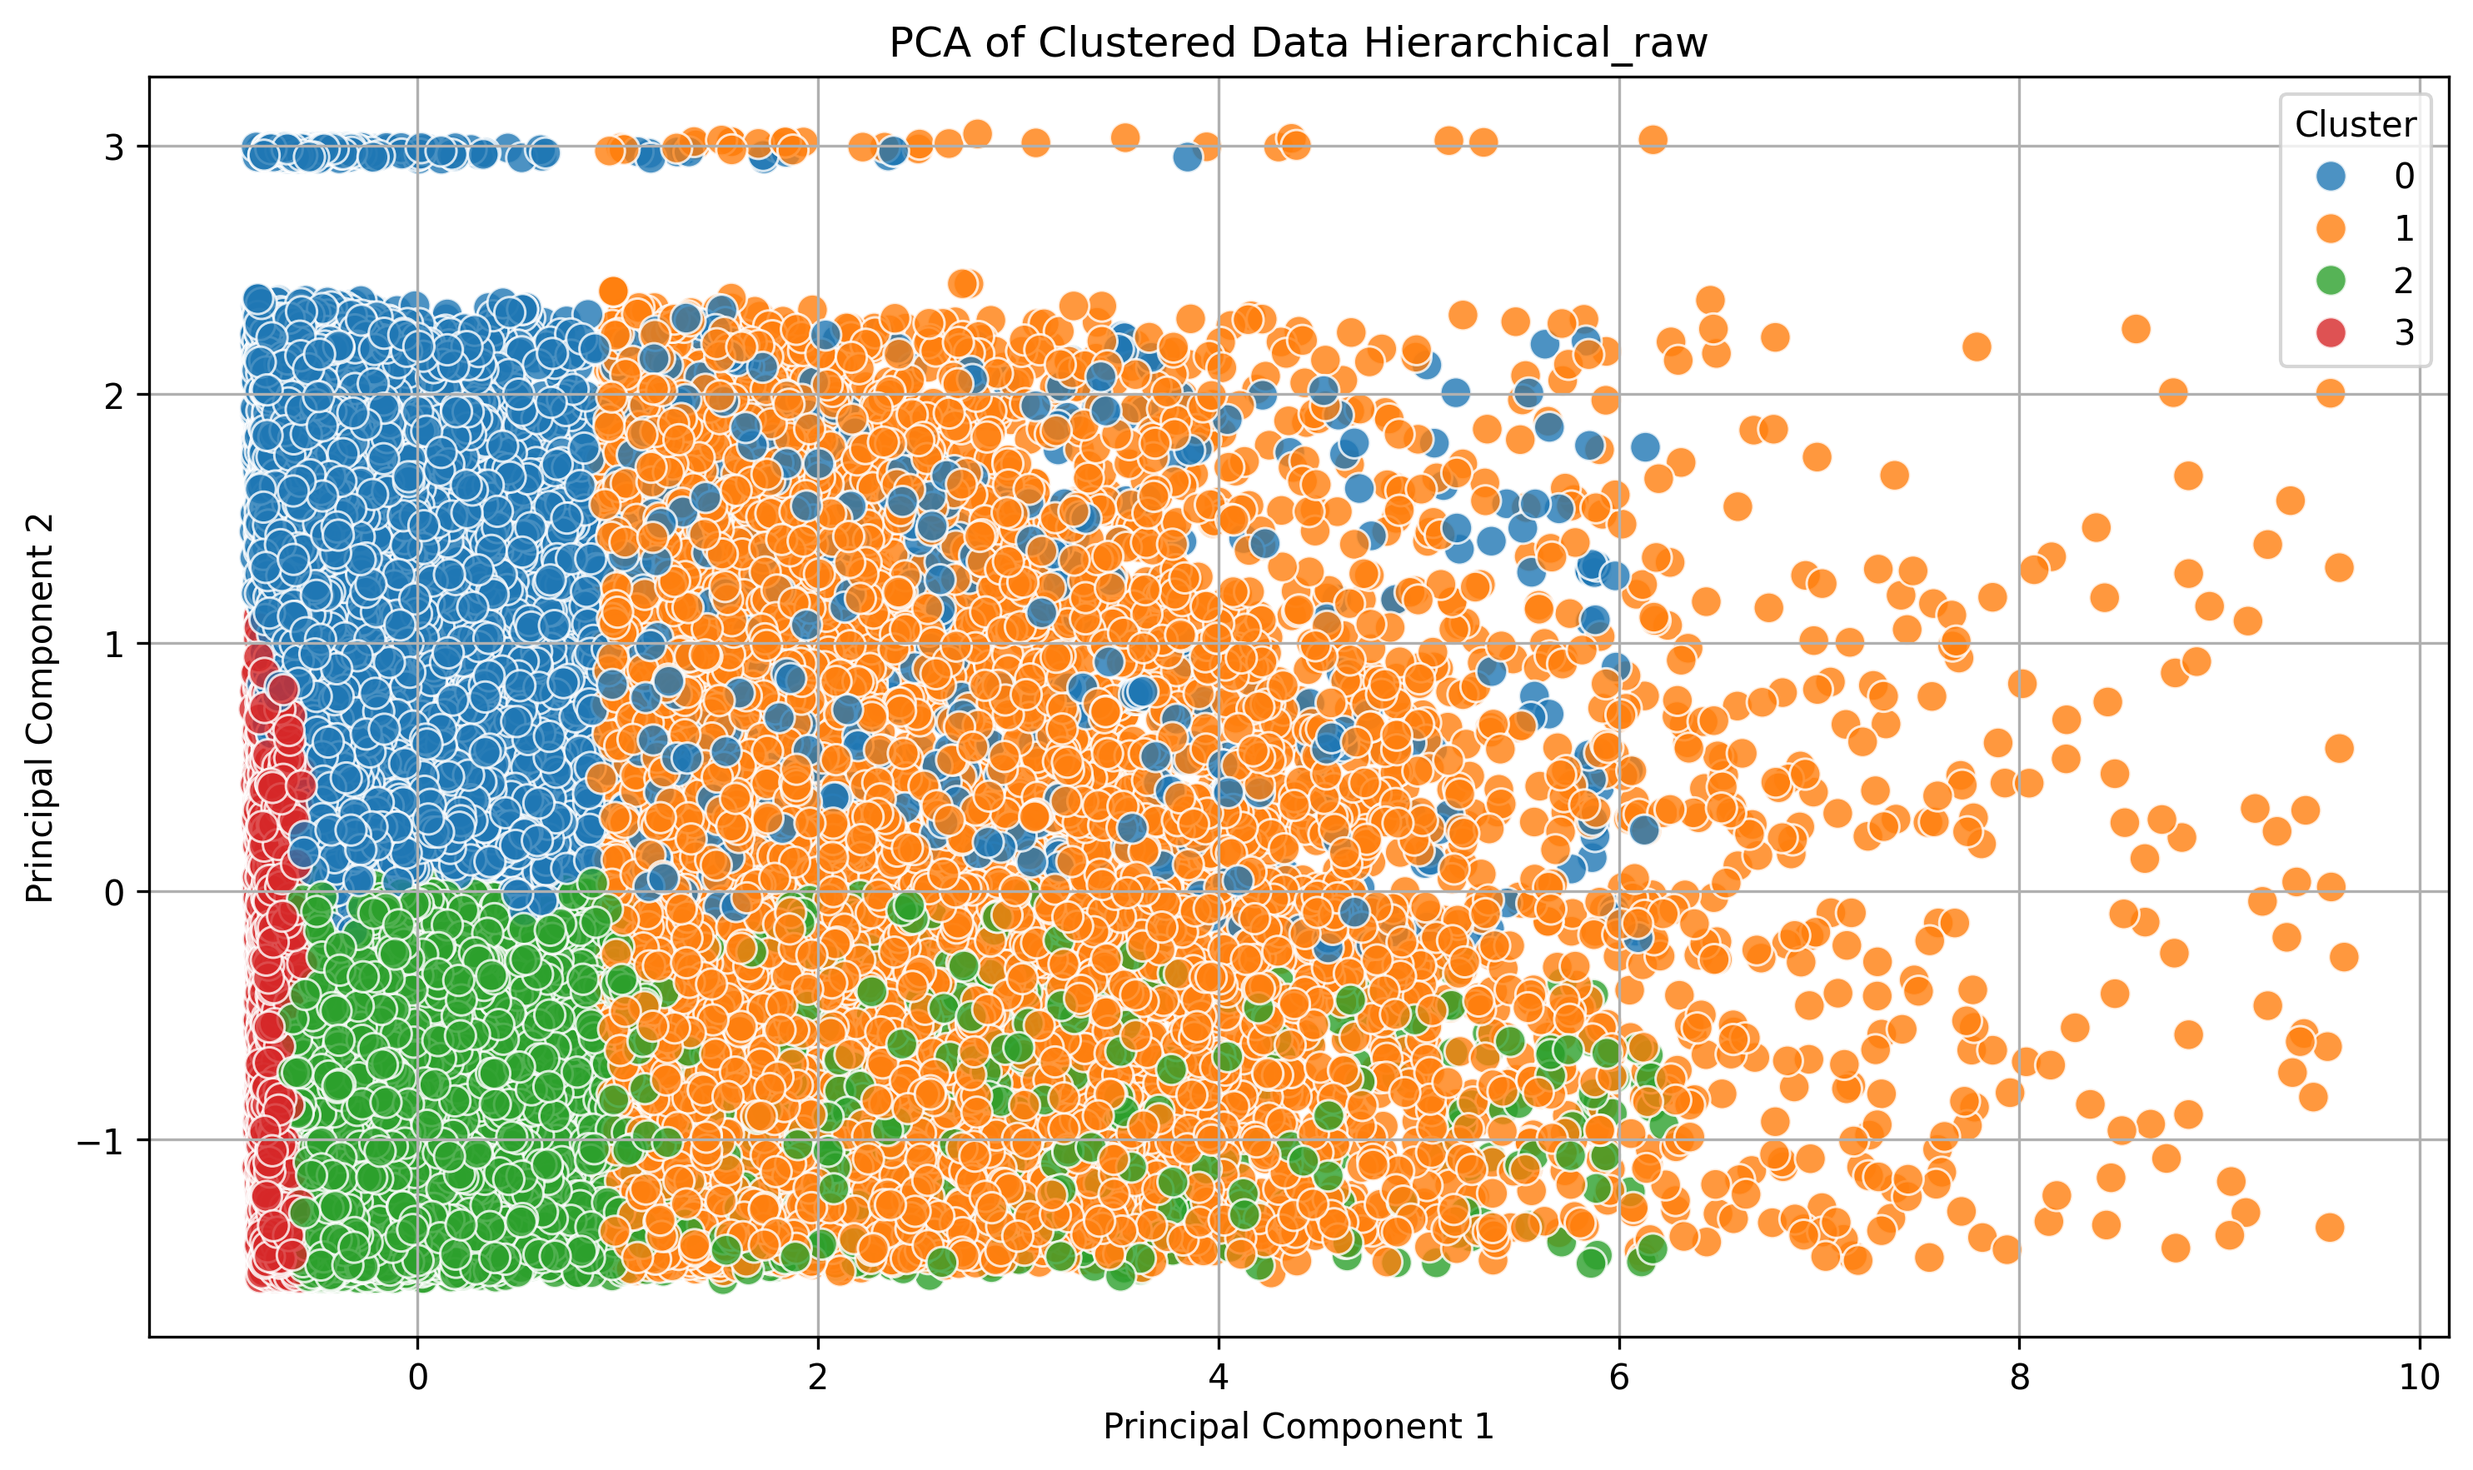
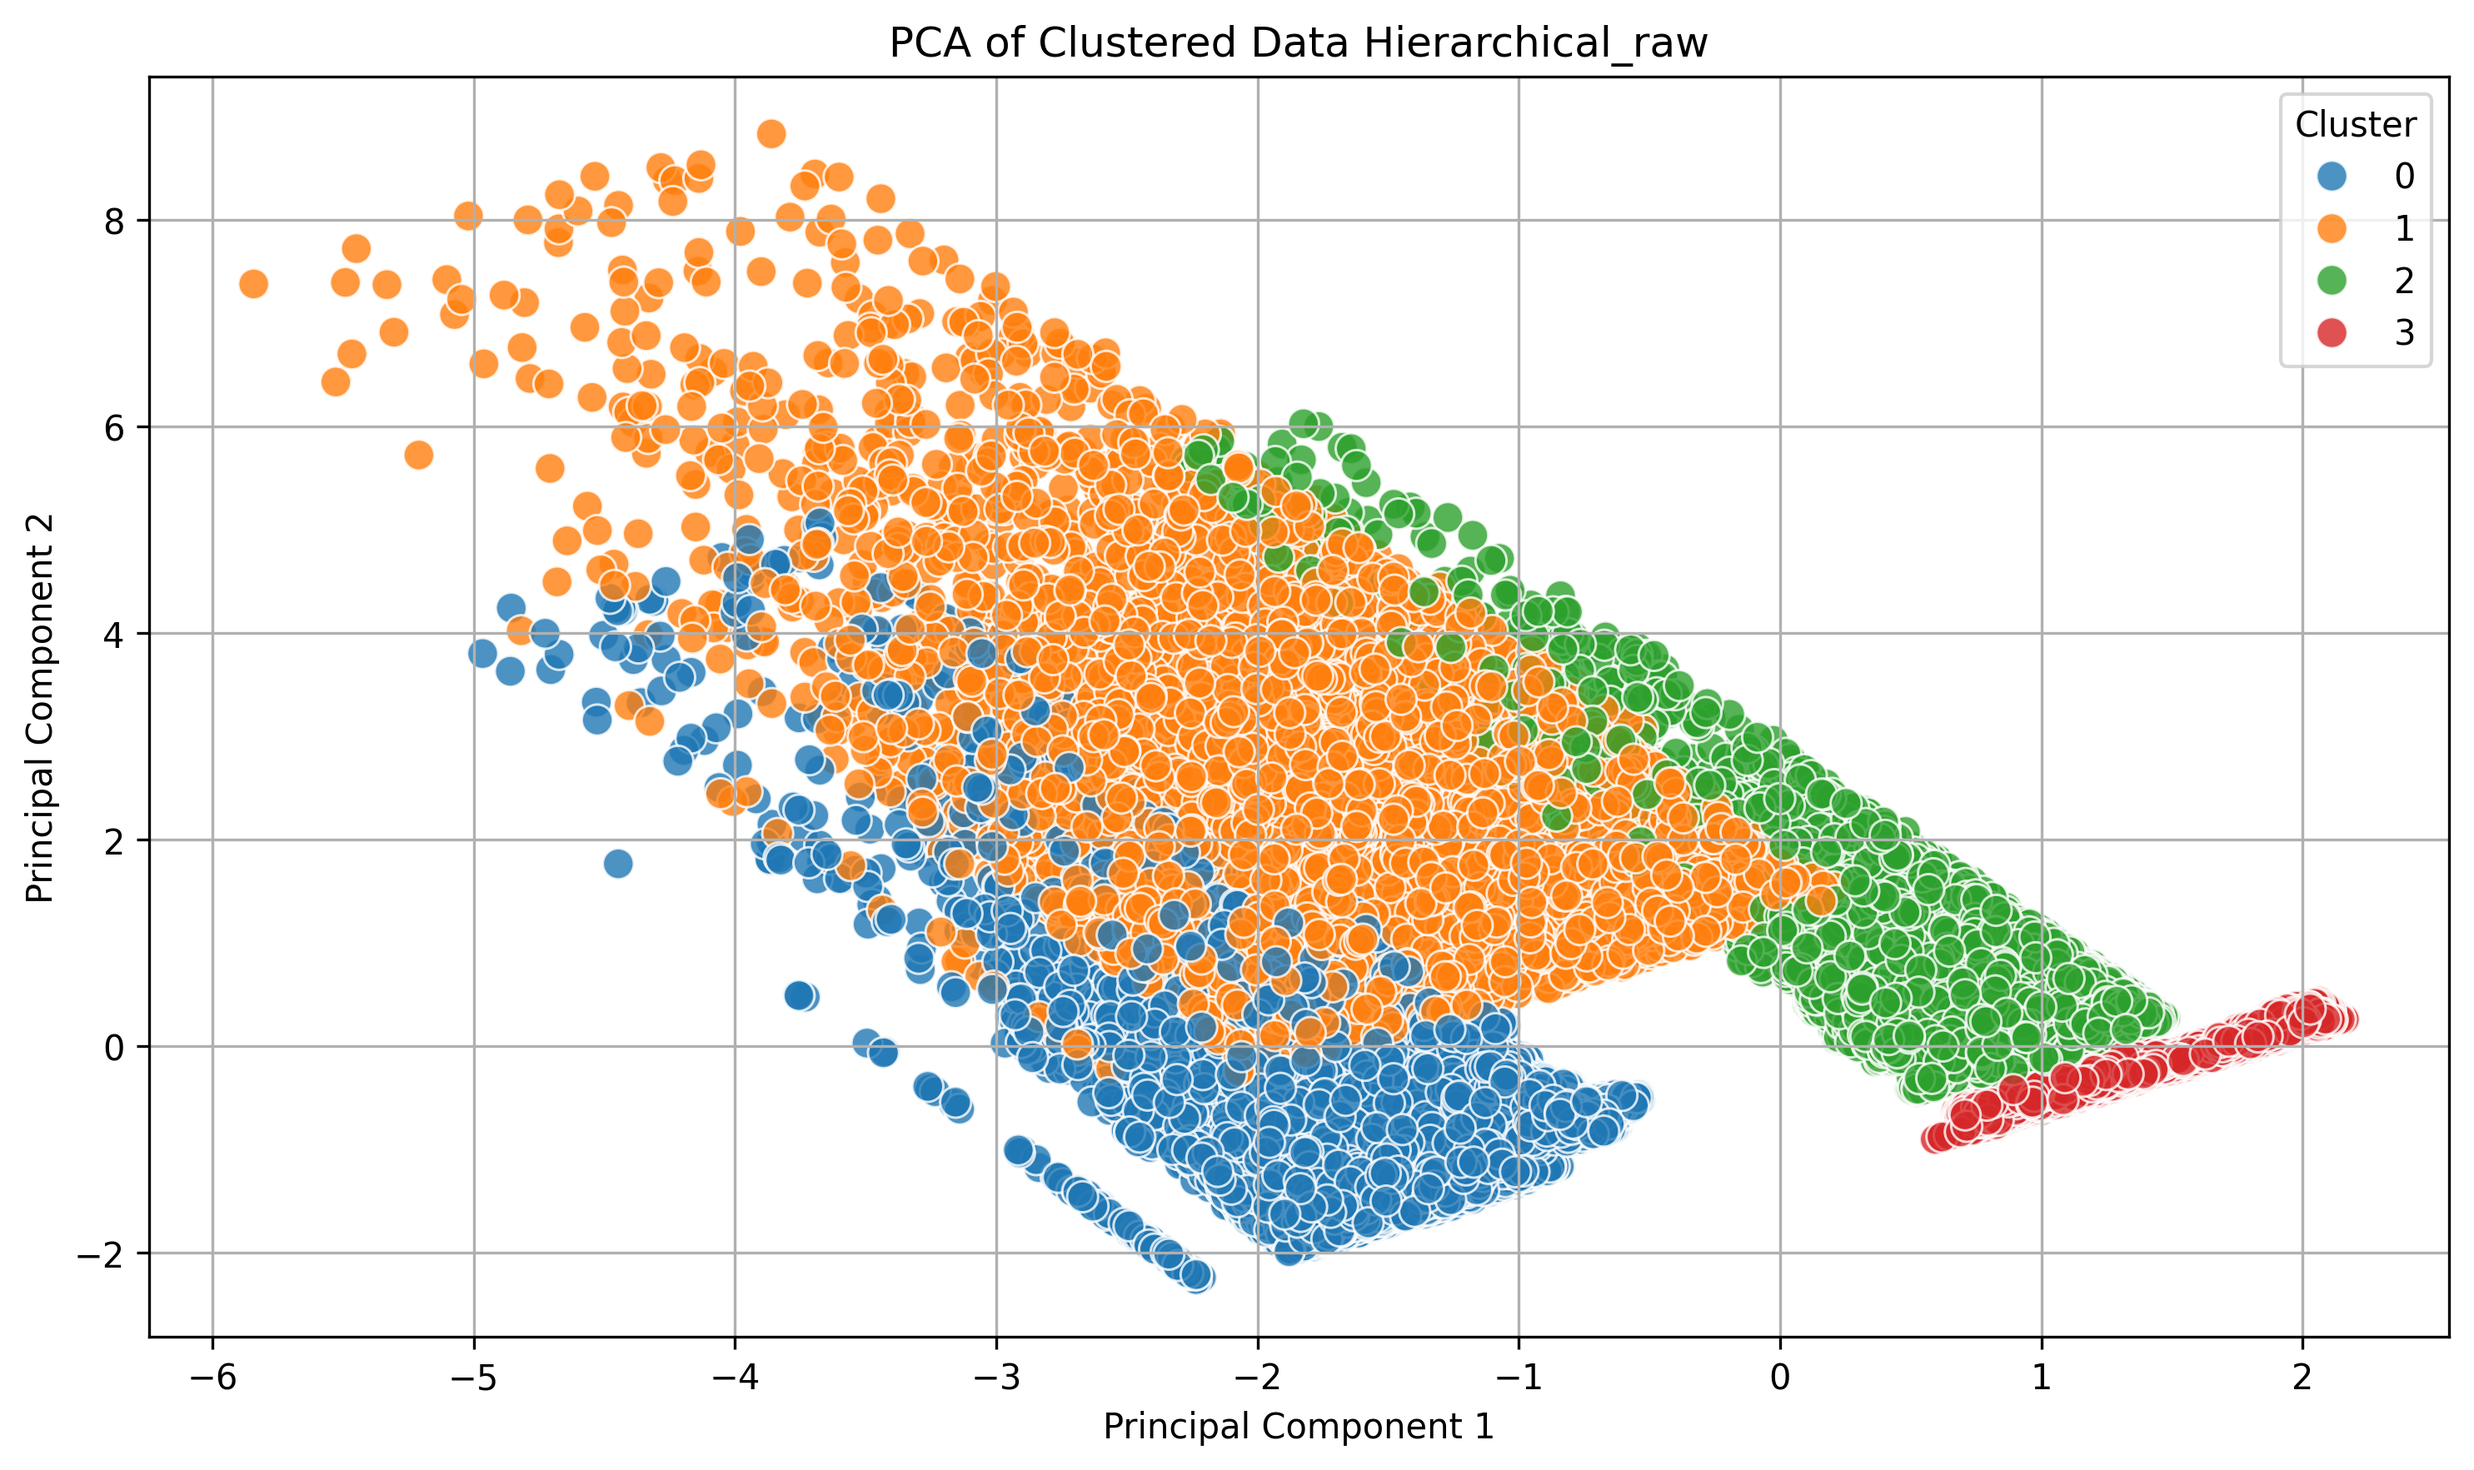
benerin pca biar gambarnya sesuai yg sinan mau

diff --git a/15-final/benerin_pca.py b/15-final/benerin_pca.py
@@ -1,0 +1,23 @@
+import utils
+
+kmeans = utils.import_pickle('kmeans_result.pkl')
+kmeans_clean = utils.import_pickle('kmeans_clean_result.pkl')
+kproto = utils.import_pickle('kprototype_result.pkl')
+kproto_clean = utils.import_pickle('kprototype_clean_result.pkl')
+dbscan = utils.import_pickle('dbscan_result.pkl')
+dbscan_clean = utils.import_pickle('dbscan_clean_result.pkl')
+gmm = utils.import_pickle('gmm_result.pkl')
+gmm_clean = utils.import_pickle('gmm_clean_result.pkl')
+hierarchical = utils.import_pickle('hierarchical_result.pkl')
+hierarchical_clean = utils.import_pickle('hierarchical_clean_result.pkl')
+
+utils.plot_pca(data=kmeans, labels=kmeans['Cluster'], title='K-Means', scale=True)
+utils.plot_pca(data=kmeans_clean, labels=kmeans_clean['Cluster'], title='K-Means_raw', scale=True)
+utils.plot_pca(data=kproto, labels=kproto['Cluster'], title='K-Prototype', scale=True)
+utils.plot_pca(data=kproto_clean, labels=kproto_clean['Cluster'], title='K-Prototype_raw', scale=True)
+utils.plot_pca(data=dbscan, labels=dbscan['Cluster'], title='DBSCAN', scale=True)
+utils.plot_pca(data=dbscan_clean, labels=dbscan_clean['Cluster'], title='DBSCAN_raw', scale=True)
+utils.plot_pca(data=gmm, labels=gmm['Cluster'], title='GMM', scale=True)
+utils.plot_pca(data=gmm_clean, labels=gmm_clean['Cluster'], title='GMM_raw', scale=True)
+utils.plot_pca(data=hierarchical, labels=hierarchical['Cluster'], title='Hierarchical', scale=True)
+utils.plot_pca(data=hierarchical_clean, labels=hierarchical_clean['Cluster'], title='Hierarchical_raw', scale=True)

diff --git a/utils.py b/utils.py
@@ -296,7 +296,7 @@ def eval_metrics_single(df, labels, logger):
     logger.print("Calinski-Harabasz Index: ", calinski_harabasz_score(df, labels))
 
 def plot_pca(data, labels, title, scale=True):
-    required_columns = ['recency', 'frequency', 'monetary']
+    required_columns = ['recency', 'frequency', 'monetary', 'Cluster']
     if not all(col in data.columns for col in required_columns):
         raise ValueError(f"DataFrame must contain the following columns: {required_columns}")
     data = data[required_columns]
